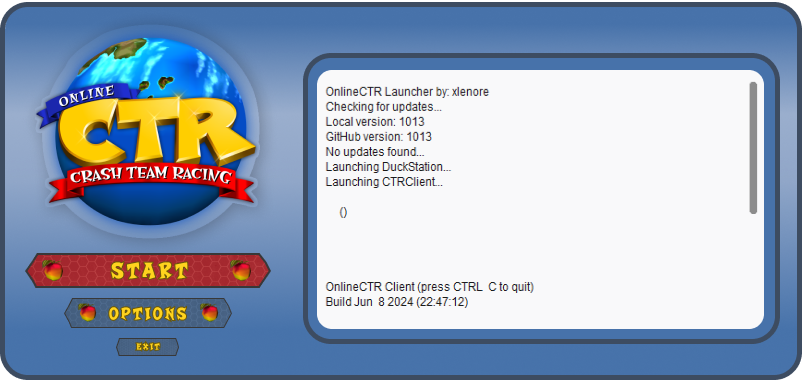
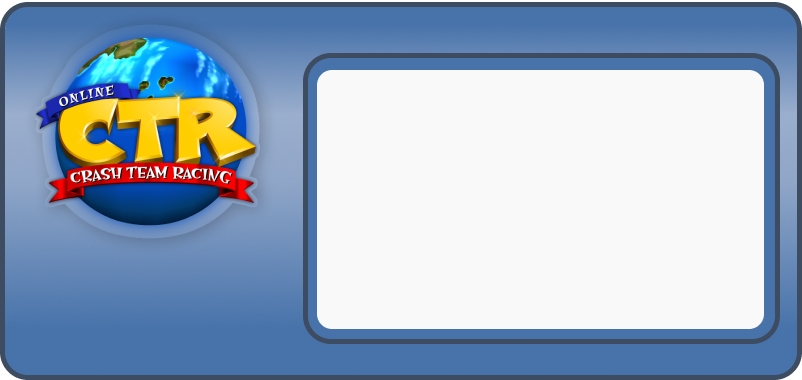
Tried my best to change Pixmap for Grid but failed. Changed assets to add buttons, created hover class

diff --git a/launcher.py b/launcher.py
@@ -497,6 +497,31 @@ class LauncherGameRunnable(QRunnable):
         self.game_launcher.launch_game()        
 
 
+class HoverButton(QPushButton):
+    def __init__(self, parent=None):
+        super().__init__(parent)
+        self.setMouseTracking(True)
+        self.setStyleSheet("""
+            QPushButton {
+                border: none;
+                background-color: transparent;
+            }
+        """)
+        self.glow_enabled = False
+
+    def enterEvent(self, event):
+        if not self.graphicsEffect():
+            glow_effect = QGraphicsDropShadowEffect(self)
+            glow_effect.setColor(QColor(255, 255, 255)) 
+            glow_effect.setOffset(0, 0)
+            glow_effect.setBlurRadius(10)
+            self.setGraphicsEffect(glow_effect)
+        self.update()
+
+    def leaveEvent(self, event):
+        self.setGraphicsEffect(None)
+        self.update()
+        
 class LauncherGUI(QMainWindow):
     def __init__(self):
         super().__init__()
@@ -536,17 +561,35 @@ class LauncherGUI(QMainWindow):
         return logs_textbox
 
     def create_launch_button(self):
-        button_launch = QPushButton(self.window)
-        button_launch.setGeometry(50, 255, 190, 30)
-        button_launch.setStyleSheet("background-color: rgba(0, 0, 0, 0);")
+        script_dir = os.path.dirname(os.path.abspath(__file__))
+        start_path = os.path.join(script_dir, 'assets', 'START.png').replace(os.sep, '/')
+        button_launch = HoverButton(self.window)
+        button_launch.setGeometry(30, 253, 250, 40)
+        button_launch.setStyleSheet(f"""
+            HoverButton {{
+                border: none;
+                background-image: url({start_path});
+                background-repeat: no-repeat;
+                background-position: center;
+            }}
+        """)
         button_launch.setCursor(Qt.PointingHandCursor)
         #debugpy.debug_this_thread()
         button_launch.clicked.connect(self.launch_game_in_thread)
 
     def create_settings_button(self):
-        button_settings = QPushButton(self.window)
-        button_settings.setGeometry(65, 300, 170, 30)
-        button_settings.setStyleSheet("background-color: rgba(0, 0, 0, 0);")
+        script_dir = os.path.dirname(os.path.abspath(__file__))
+        settings_path = os.path.join(script_dir, 'assets', 'OPTIONS.png').replace(os.sep, '/')
+        button_settings = HoverButton(self.window)
+        button_settings.setGeometry(68, 298, 170, 40)
+        button_settings.setStyleSheet(f"""
+            HoverButton {{
+                border: none;
+                background-image: url({settings_path});
+                background-repeat: no-repeat;
+                background-position: center;
+            }}
+        """)
         button_settings.setCursor(Qt.PointingHandCursor)
         
         launcher_settings = LauncherSettings()
@@ -554,9 +597,18 @@ class LauncherGUI(QMainWindow):
         button_settings.clicked.connect(self.second_window.show)
 
     def create_exit_button(self):
-        button_exit = QPushButton(self.window)
-        button_exit.setGeometry(80, 338, 140, 30)
-        button_exit.setStyleSheet("background-color: rgba(0, 0, 0, 0);")
+        script_dir = os.path.dirname(os.path.abspath(__file__))
+        exit_path = os.path.join(script_dir, 'assets', 'EXIT.png').replace(os.sep, '/')
+        button_exit = HoverButton(self.window)
+        button_exit.setGeometry(85, 340, 140, 30)
+        button_exit.setStyleSheet(f"""
+            HoverButton {{
+                border: none;
+                background-image: url({exit_path});
+                background-repeat: no-repeat;
+                background-position: center;
+            }}
+        """)
         button_exit.setCursor(Qt.PointingHandCursor)
         button_exit.clicked.connect(self.close)
 
